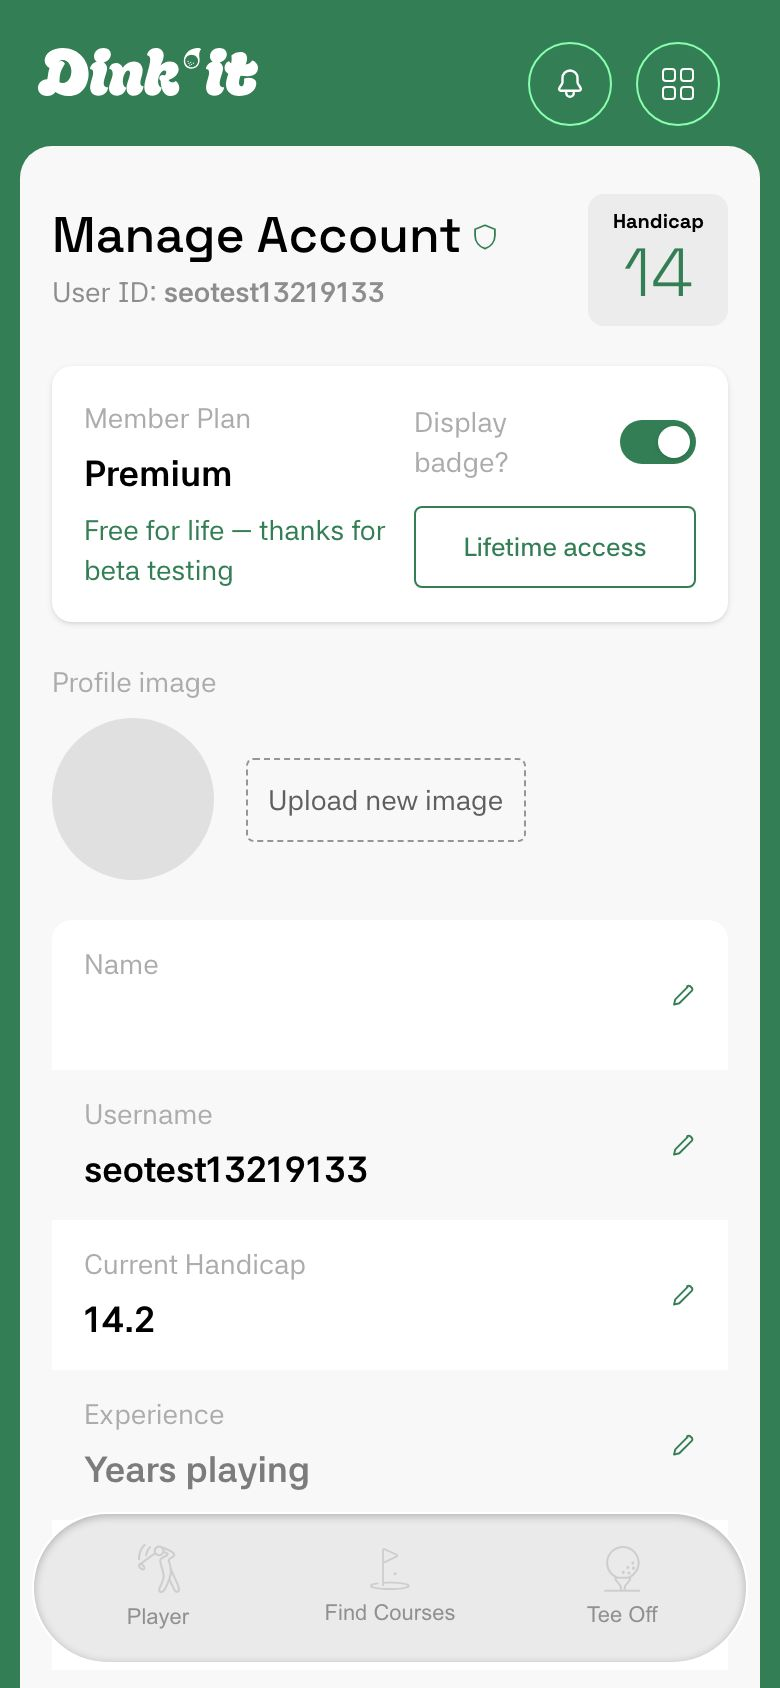
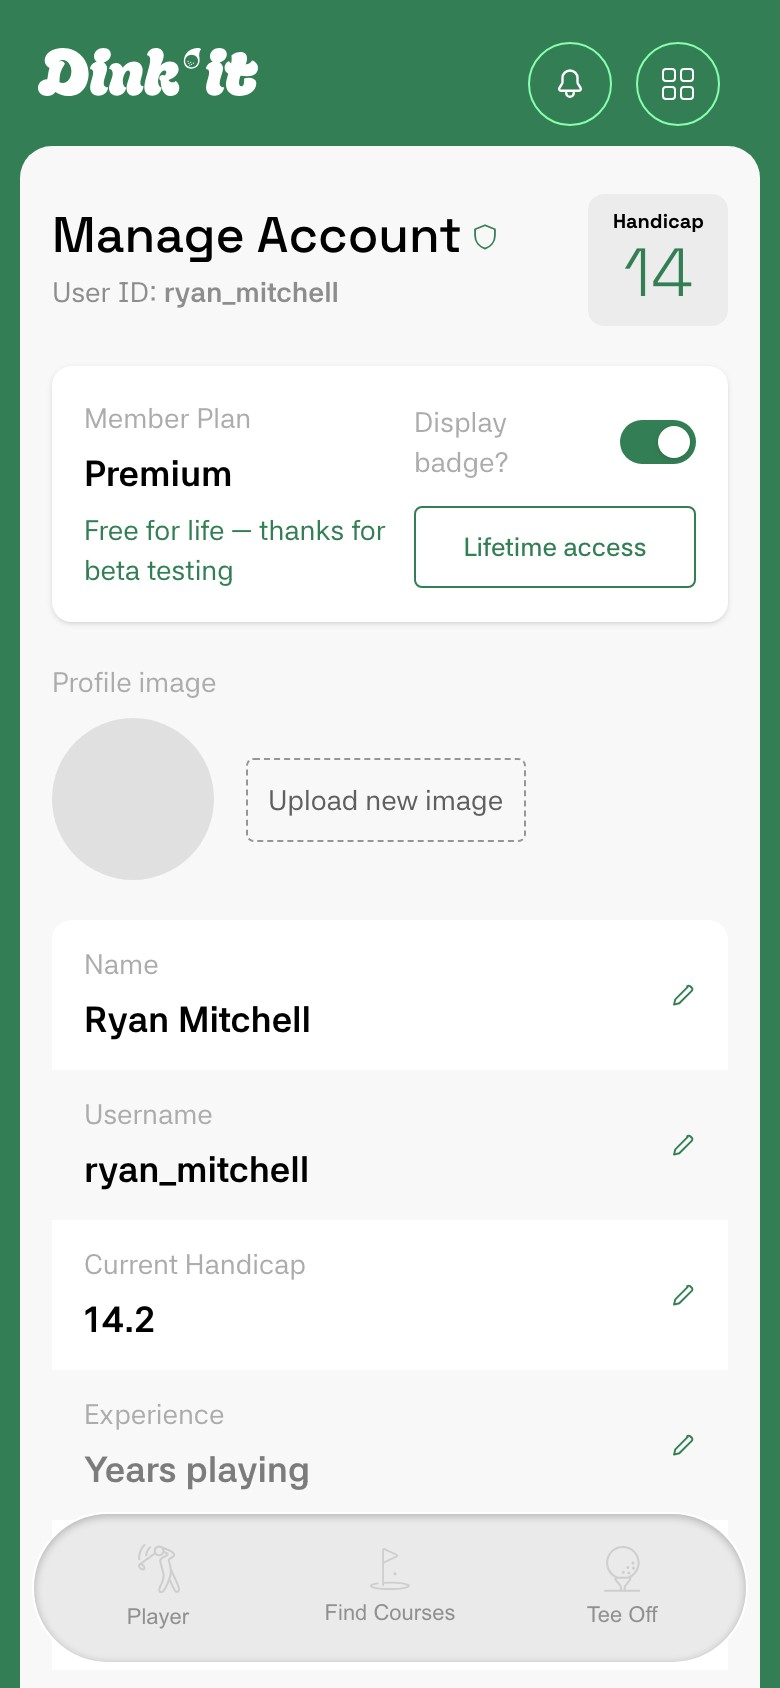
Revise handicap + head-to-head screenshots per feedback
Test account now uses a natural name/username (Ryan Mitchell) instead
of the auto-generated seotest13219133, fixing the dashboard greeting,
avatar initial, and account page User ID line. Head-to-Head's three
screenshots now follow the site's standard uncropped full-phone-frame
convention instead of ad-hoc tight crops: the friends list shows three
friends, the premium-gate shot captures the real Upgrade Now modal,
and the comparison shot shows full surrounding page chrome.

Changed region(s): [[0.1231, 0.6777, 0.4615, 0.7085], [0.0923, 0.5853, 0.4, 0.6161], [0.2154, 0.154, 0.4923, 0.1848]]

diff --git a/src/app/(site)/golf-head-to-head-comparison/page.tsx b/src/app/(site)/golf-head-to-head-comparison/page.tsx
@@ -18,13 +18,13 @@ const HOW_IT_WORKS = [
     title: "Add a friend to compare against",
     body: "Head-to-Head only works between accepted friends. Send a request from Find Friends, and once they accept, they show up with their own live handicap.",
     image: "/images/howto-h2h-0-friends.jpg",
-    alt: "Dink'It Friends screen showing an accepted friend, Jamie Carter, with a Handicap of 11.3",
+    alt: "Dink'It Friends screen showing three accepted friends with handicaps and last-played dates, including Jamie Carter at a Handicap of 11.3",
   },
   {
     title: "Unlock it with Premium",
     body: "Head-to-Head is a Premium feature on the viewing account only, your friend doesn't need Premium for you to compare against them.",
     image: "/images/howto-h2h-2-premium-gate.jpg",
-    alt: "Dink'It premium upgrade prompt reading Unlock head-to-head stats, best score, longest drive, longest putt, handicap and strokes gained, with a premium account",
+    alt: "Dink'It Upgrade to Premium modal listing Strokes Gained Analytics, Shot Dispersion Mapping, Course-Specific Trends and AI Performance Summaries, with monthly and annual pricing",
   },
   {
     title: "See exactly where you compare",

diff --git a/docs/seo-execution-status.md b/docs/seo-execution-status.md
@@ -212,6 +212,25 @@ survives context resets.
     per hole. 3-box "how it works" uses 3 new screenshots: the friends list, the Premium upgrade
     gate (captured by temporarily flipping the test account's `betaTester` flag off, screenshotting,
     then restoring it), and the full 5-stat comparison card.
+  - **2026-10-08 screenshot revision pass** (user feedback on the above): the test account's
+    auto-generated identity (`seotest13219133` as both name fallback and username) read as obviously
+    synthetic, so it's now `Ryan Mitchell` / `ryan_mitchell` — re-fixes the "Hello there" dashboard
+    greeting, the dashboard avatar initial, and the account page's "User ID" line, all of which
+    derive from `name`/`username`. Re-captured both handicap screenshots. Separately, the
+    Head-to-Head screenshots had drifted from this project's full-phone-frame convention (two were
+    tight `clip`-based crops) — fixed by recapturing all three at the standard uncropped 390x844.
+    Seeded two more disposable friend accounts (`seo-friend-2-13219133@dinkitgolf.com` "Sophie
+    Clarke", `seo-friend-3-13219133@dinkitgolf.com` "Tom Richardson", each with one rated `ScoreCard`
+    at Highgate for a "Last played" date) so the friends-list screenshot shows three friends instead
+    of one; their handicap column reads "—" since WHS needs 3 rated rounds, which is real app
+    behavior, not a seeding gap. The premium-gate screenshot now captures the actual `UpgradeModal`
+    popup (triggered live via Playwright click) instead of the static inline locked card, full
+    screen. The comparison screenshot is now scrolled to the bottom of the real friend-profile page
+    instead of being `clip`-cropped to just the stat rows, so it shows real surrounding chrome
+    (header, "Head to Head" section, Remove Friend link, bottom nav) — the leftover `"(prem)"` dev
+    label (still an open, separately-flagged production bug, see above) was patched to plain "Head
+    to Head" client-side for this capture only, not touched on disk or in the DB. Updated the
+    friends-list and premium-gate `alt` text in `golf-head-to-head-comparison/page.tsx` to match.
 
 The strategy doc's own "Phase 1 — first 15 pages" (commercial + educational pillar around Shot
 Tracking / Stats / Strokes Gained / Dispersion / Club Distances — see source doc lines 1231–1250)
